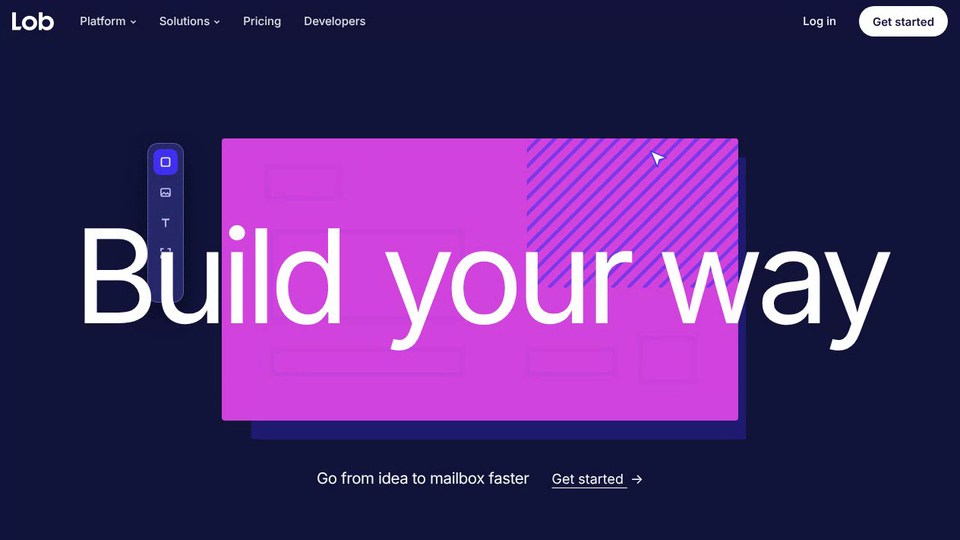
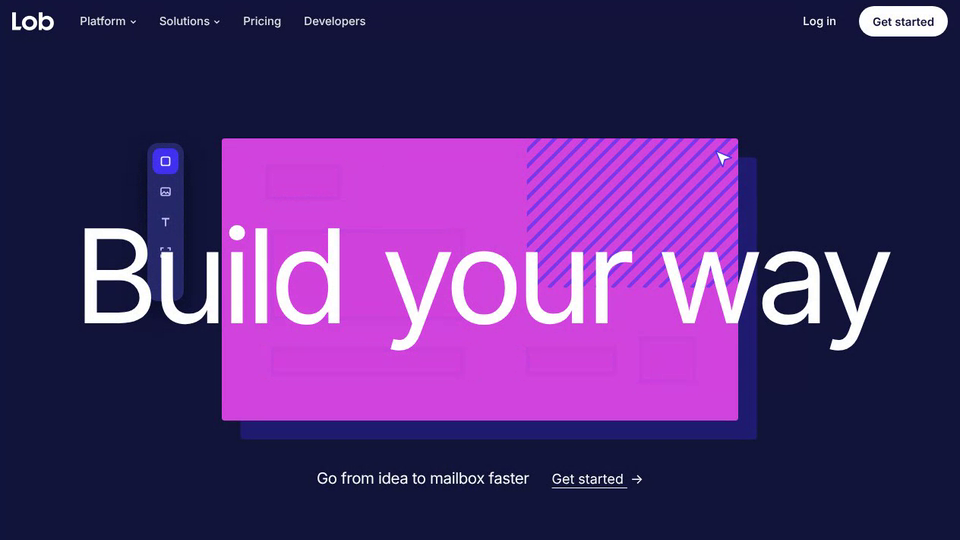
Lob Get Started: hero polish, borderless UI, serif template heading (#866)
* Lob Get Started: website mockup on dark navy

Shopify /start scroll structure for Lob: build your way hero with a
cycling mail collage, five stacked templates that open into a full
template preview, a scroll-driven Visual Editor, a CTA section with
QR code, PURL and coupon code, a fanned CTA card lineup and a centered
closing CTA.

Claude-Session: https://claude.ai/code/session_016rpgucWKf3te6zwsCQ1J4C

* Lob Get Started: chosen template drops into the Visual Editor

The Choose your template stack and the Visual Editor are now one
scroll section: the middle card is picked, the editor rises, and a
cursor carries the card into the canvas, where it opens into its
editable layers before the import, edit, swap and personalize steps.

Claude-Session: https://claude.ai/code/session_016rpgucWKf3te6zwsCQ1J4C

* Lob Get Started: lineup heading is Be at the top of the mail stack like these masters

Claude-Session: https://claude.ai/code/session_016rpgucWKf3te6zwsCQ1J4C

* Lob Get Started: lineup heading is Top of the mail stack

Claude-Session: https://claude.ai/code/session_016rpgucWKf3te6zwsCQ1J4C

* Lob Get Started: landscape mail stack cards, no tab labels

Claude-Session: https://claude.ai/code/session_016rpgucWKf3te6zwsCQ1J4C

* Lob Get Started: closing CTA on three lines, no Template Gallery in the nav

Claude-Session: https://claude.ai/code/session_016rpgucWKf3te6zwsCQ1J4C

* Lob Get Started: no outline on the picked template card
[…]

diff --git a/lob-get-started/index.html b/lob-get-started/index.html
@@ -87,7 +87,7 @@ html body nav.back:not(.sb-panel):not(:has(>div))>a,html body nav.back:not(.sb-p
 .chipfile .ok{width:22px;height:22px;border-radius:6px;background:var(--lime);display:grid;place-items:center}
 /* hero postcard: abstract blocks -> high fidelity -> bleed + crop -> QA scan -> checks */
 .hc{position:absolute;left:0;top:0;width:700px;height:430px;transform-origin:0 0;--pu:#4131f1;--mint:#c9f0e4;--hot:#d244de}
-.pcv{position:absolute;left:0;top:0;width:700px;height:430px}
+.pcv{position:absolute;left:-100px;top:-40px;width:900px;height:510px}
 .post{position:absolute;left:10px;top:34px;width:680px;height:371px;pointer-events:none}
 .blk{position:absolute;box-sizing:border-box;border:2.5px solid var(--lav);background:rgba(169,156,255,.12);border-radius:6px;opacity:0;transform:scale(.7);transition:opacity .3s,transform .45s cubic-bezier(.2,1.6,.4,1),background .5s,border-color .5s,border-radius .5s}
 .blk.in{opacity:1;transform:none}
@@ -127,15 +127,15 @@ html body nav.back:not(.sb-panel):not(:has(>div))>a,html body nav.back:not(.sb-p
 .bleed i:nth-child(3){right:-22px;top:10px;width:16px;height:2px}.bleed i:nth-child(4){right:10px;top:-22px;width:2px;height:16px}
 .bleed i:nth-child(5){left:-22px;bottom:10px;width:16px;height:2px}.bleed i:nth-child(6){left:10px;bottom:-22px;width:2px;height:16px}
 .bleed i:nth-child(7){right:-22px;bottom:10px;width:16px;height:2px}.bleed i:nth-child(8){right:10px;bottom:-22px;width:2px;height:16px}
-.qa{position:absolute;left:50%;top:-34px;transform:translateX(-50%) translateY(6px);height:30px;padding:0 14px;border-radius:99px;background:#262a6b;color:#fff;display:flex;align-items:center;gap:8px;font:700 11px var(--sans);letter-spacing:.12em;white-space:nowrap;opacity:0;transition:opacity .3s,transform .3s;z-index:3}
+.qa{position:absolute;left:50%;top:-20px;transform:translateX(-50%) translateY(6px);height:30px;padding:0 14px;border-radius:99px;background:#262a6b;color:#fff;display:flex;align-items:center;gap:8px;font:700 11px var(--sans);letter-spacing:.12em;white-space:nowrap;opacity:0;transition:opacity .3s,transform .3s;z-index:3}
 .qa.on{opacity:1;transform:translateX(-50%)}
 .qa i{font-style:normal;font-size:13px;font-weight:700;color:var(--mint)}
-.rail{position:absolute;left:-88px;top:40px;width:48px;padding:7px;border-radius:14px;background:#262a6b;border:1px solid rgba(169,156,255,.4);display:flex;flex-direction:column;gap:6px;box-shadow:0 14px 30px rgba(0,0,0,.35);opacity:0;transform:translateX(-8px);transition:opacity .35s,transform .35s;z-index:3}
+.rail{position:absolute;left:-88px;top:40px;width:48px;padding:7px;border-radius:14px;background:#262a6b;display:flex;flex-direction:column;gap:6px;box-shadow:0 14px 30px rgba(0,0,0,.35);opacity:0;transform:translateX(-8px);transition:opacity .35s,transform .35s;z-index:3}
 .rail.on{opacity:1;transform:none}
 .rail b{height:34px;border-radius:9px;display:grid;place-items:center;color:#c9c4ff;transition:background .2s,color .2s}
 .rail b svg{width:16px;height:16px}
 .rail b.on{background:var(--pu);color:#fff}
-.gal{position:absolute;left:520px;top:-26px;width:284px;padding:16px;border-radius:12px;background:#262a6b;border:1px solid rgba(169,156,255,.4);color:#fff;box-shadow:0 18px 40px rgba(0,0,0,.4);opacity:0;transform:translateY(-8px);transition:opacity .35s,transform .35s;z-index:3}
+.gal{position:absolute;left:520px;top:-26px;width:284px;padding:16px;border-radius:12px;background:#262a6b;color:#fff;box-shadow:0 18px 40px rgba(0,0,0,.4);opacity:0;transform:translateY(-8px);transition:opacity .35s,transform .35s;z-index:3}
 .gal.on{opacity:1;transform:none}
 .gal .gt{display:flex;justify-content:space-between;font:600 12px var(--sans);margin-bottom:12px}
 .gal .gn{color:#a99cff;font-weight:500}
@@ -143,9 +143,10 @@ html body nav.back:not(.sb-panel):not(:has(>div))>a,html body nav.back:not(.sb-p
 .gal .g div{aspect-ratio:1.05;border-radius:7px;background-size:cover;background-position:center;outline:3px solid transparent;outline-offset:2px;transition:outline-color .25s}
 .gal .g.on div{outline-color:var(--hot)}
 .gal .g small{display:block;margin-top:6px;font:600 10.5px var(--sans)}
-.chk{position:absolute;left:-64px;top:262px;width:272px;padding:16px 18px 16px;border-radius:12px;background:#262a6b;border:1px solid rgba(169,156,255,.4);color:#fff;box-shadow:0 18px 40px rgba(0,0,0,.4);opacity:0;transform:translateY(8px);transition:opacity .35s,transform .35s;z-index:3}
+.chk{position:absolute;left:-64px;top:276px;width:272px;padding:16px 18px 16px;border-radius:12px;background:#262a6b;color:#fff;box-shadow:0 18px 40px rgba(0,0,0,.4);opacity:0;transform:translateY(8px);transition:opacity .35s,transform .35s;z-index:3}
 .chk.on{opacity:1;transform:none}
 .chk .ct{font:700 10px var(--sans);letter-spacing:.14em;color:#a99cff;margin-bottom:8px;text-transform:uppercase}
+.chk .cr:first-of-type{border-top:0}
 .chk .cr{display:flex;align-items:center;justify-content:space-between;height:36px;font:500 13.5px var(--sans);border-top:1px solid rgba(255,255,255,.12)}
 .chk .cr i{width:20px;height:20px;border-radius:6px;background:rgba(255,255,255,.12);display:grid;place-items:center;transform:scale(.8);transition:background .25s,transform .35s cubic-bezier(.2,1.8,.4,1)}
 .chk .cr.ok i{background:var(--mint);transform:none}
@@ -292,6 +293,8 @@ html body nav.back:not(.sb-panel):not(:has(>div))>a,html body nav.back:not(.sb-p
 #ab.l2 #antsH{left:208px;top:50px;width:204px;height:100px}
 #ab.l2 #antsI{left:-6px;top:-6px;width:208px;height:292px}
 .ab .band p,.ab .band .qr{transition:all .6s cubic-bezier(.6,0,.2,1)}
+#tplH p{max-width:none;white-space:nowrap}
+@media (max-width:640px){#tplH p{white-space:normal}}
 #veH p{min-height:2.9em;max-width:520px;transition:opacity .3s,filter .3s,transform .3s}
 #veH p.sw{opacity:0;filter:blur(4px);transform:translateY(6px)}
 .steps{position:absolute;left:0;top:622px;width:960px;display:flex;justify-content:center;gap:10px}
@@ -413,7 +416,7 @@ footer nav{display:flex;gap:22px;margin-left:auto;flex-wrap:wrap}
         </div>
         <div class="gal" id="gal"><div class="gt"><span>Images ›</span><span class="gn">Healthcare</span></div>
           <div class="gth"><div class="g" id="g1"><div style="background-image:url(assets/care-1.webp)"></div></div><div class="g" id="g2"><div style="background-image:url(assets/care-2.webp);background-position:62% 30%"></div></div><div class="g" id="g3"><div style="background-image:url(assets/care-3.webp);background-position:45% 30%"></div></div></div></div>
-        <div class="chk" id="chk"><div class="ct">QA checks</div>
+        <div class="chk" id="chk">
           <div class="cr" id="cr1"><span>Deliverability</span><i></i></div>
           <div class="cr" id="cr2"><span>QR code correct</span><i></i></div>
           <div class="cr" id="cr3"><span>Name matches CSV</span><i></i></div>
@@ -429,7 +432,7 @@ footer nav{display:flex;gap:22px;margin-left:auto;flex-wrap:wrap}
 <!-- 1 templates: five stacked cards; the chosen one is dragged into the Visual Editor -->
 <section class="sec" id="tpl">
   <div class="stick" id="tplS">
-    <div class="hd" id="tplH" style="top:7%"><h2>Choose your <em class="s">template</em></h2><p>Start with 40+ ready-to-use mail pieces or design your own from scratch.</p></div>
+    <div class="hd" id="tplH" style="top:7%"><h2><em class="s">Choose your template</em></h2><p>Start with 40+ ready-to-use mail pieces or design your own.</p></div>
     <div class="hd" id="veH" style="opacity:0"><h2>Build in the <em class="s">Visual Editor</em></h2><p id="veSub">Start from a ready-to-use template or build your own from scratch.</p></div>
     <div class="box" id="veB">
       <div class="glow" id="veG"></div>
@@ -569,10 +572,10 @@ const EL_ORDER = [3, 4, 2, 0, 1];
 const IMG1 = new Image(); IMG1.src = 'assets/care-1.webp';
 const IMG2 = new Image(); IMG2.src = 'assets/care-2.webp';
 const IMG3 = new Image(); IMG3.src = 'assets/care-3.webp';
-const QRM = (() => { const out = [];   // a simplified 11 x 11 code: three finder squares and a few data blocks
-  const finder = (ox, oy) => { for (let y = 0; y < 4; y++) for (let x = 0; x < 4; x++) if (x === 0 || y === 0 || x === 3 || y === 3) out.push([ox + x, oy + y]); out.push([ox + 1.5, oy + 1.5]); };
-  finder(0, 0); finder(7, 0); finder(0, 7);
-  for (const p of [[5, 1], [5, 3], [6, 5], [8, 5], [10, 5], [5, 6], [7, 7], [9, 7], [5, 8], [8, 8], [10, 9], [6, 10], [8, 10], [10, 10], [1, 5], [3, 5]]) out.push(p);
+const QRM = (() => { const out = [];   // a simplified 15 x 15 code: three thin finder squares and a few data blocks
+  const finder = (ox, oy) => { for (let y = 0; y < 5; y++) for (let x = 0; x < 5; x++) if (x === 0 || y === 0 || x === 4 || y === 4) out.push([ox + x, oy + y]); out.push([ox + 2, oy + 2]); };
+  finder(0, 0); finder(10, 0); finder(0, 10);
+  for (const p of [[7, 1], [7, 3], [6, 6], [8, 6], [10, 7], [12, 7], [14, 7], [1, 7], [3, 7], [7, 8], [9, 9], [11, 9], [13, 10], [7, 10], [8, 12], [10, 12], [12, 13], [14, 12], [7, 14], [10, 14], [13, 14]]) out.push(p);
   return out; })();
 const LOOP = 19.4;
 const span = (t, a, b) => cl((t - a) / (b - a));
@@ -604,7 +607,7 @@ function drawDesign(t){
   if (lw > 0) { cx.fillStyle = PU; cx.fillRect(560, 390, 320 * lw, 90); }
   // photo slot: image 1 fades and settles in, image 2 replaces it later
   const e1 = ease(span(t, 5.5, 6.3)), e2 = ease(span(t, 11.1, 11.7)), e3 = ease(span(t, 12.1, 12.7));
-  for (const [img, e, fx] of [[IMG1, e1, .5], [IMG2, e2, .62], [IMG3, e3, .45]]) {
+  for (const [img, e, fx] of [[IMG2, e1, .62], [IMG3, e2, .45], [IMG1, e3, .5]]) {   // check-up, wellness, then the care team photo is the one chosen
     if (e <= 0) continue;
     cx.save(); cx.beginPath(); cx.rect(500, 0, 380, 390); cx.clip(); cx.globalAlpha = e;
     cover(img, 500, 0, 380, 390, fx, .3, 1.1 - .1 * e); cx.restore();
@@ -662,7 +665,7 @@ function drawDesign(t){
     cx.save(); cx.globalAlpha = 1 - qr; cx.strokeStyle = PU; cx.lineWidth = 3.6;
     const br = (x, y, dx, dy) => { cx.beginPath(); cx.moveTo(x + dx * 16, y); cx.lineTo(x, y); cx.lineTo(x, y + dy * 16); cx.stroke(); };
     br(28, 28, 1, 1); br(88, 28, -1, 1); br(28, 88, 1, -1); br(88, 88, -1, -1); cx.restore();
-    if (qr > 0) { cx.save(); cx.beginPath(); cx.rect(12, 12, 92, 92 * qr); cx.clip(); cx.fillStyle = '#1e2245'; const m = 92 / 11; for (const [x, y] of QRM) cx.fillRect(12 + x * m, 12 + y * m, m + .2, m + .2); cx.restore(); }
+    if (qr > 0) { cx.save(); cx.beginPath(); cx.rect(12, 12, 92, 92 * qr); cx.clip(); cx.fillStyle = '#1e2245'; const m = 92 / 15; for (const [x, y] of QRM) cx.fillRect(12 + x * m, 12 + y * m, m + .2, m + .2); cx.restore(); }
     cx.restore();
   }
   // URL: two bars and a pill, later the PURL on hot pink
@@ -694,7 +697,7 @@ function drawCard(t){
   const radius = lerp(6, 3, d);
   cx.save();
   cx.translate(CW0 / 2, CH0 / 2); cx.scale(grow, grow); cx.translate(-CW0 / 2, -CH0 / 2);
-  rr(50, 32, CW0, CH0, radius); cx.fillStyle = 'rgba(65,49,241,.3)'; cx.fill();   // hard offset shadow, purple at 30%
+  rr(32, 32, CW0, CH0, radius); cx.fillStyle = 'rgba(65,49,241,.3)'; cx.fill();   // hard offset shadow, purple at 30%
   rr(0, 0, CW0, CH0, radius); cx.fillStyle = PINK; cx.fill();
   cx.save(); rr(0, 0, CW0, CH0, radius); cx.clip();
   if (wire > 0) { cx.globalAlpha = wire; hatch(520, -6, 370, 260, PU, 27, 6); cx.globalAlpha = 1; }
@@ -704,16 +707,16 @@ function drawCard(t){
   cx.restore();
 }
 // cursor keyframes in stage px: [t, x, y]
-const HK = [[0, 640, 470], [.4, -64, 65], [4.6, -64, 65], [5.0, 574, 50], [5.6, 574, 50], [6.2, -64, 145], [6.8, -64, 105], [7.6, -64, 225], [8.4, -64, 185], [8.8, -64, 145], [9.9, -64, 225], [10.5, -64, 185], [11.0, 660, 50], [11.6, 660, 52], [11.9, 746, 50], [12.6, 746, 52], [13.1, 760, 470], [LOOP, 760, 470]];
+const HK = [[0, 640, 470], [.4, -64, 65], [4.6, -64, 65], [5.0, 660, 50], [5.6, 660, 50], [6.2, -64, 145], [6.8, -64, 105], [7.6, -64, 225], [8.4, -64, 185], [8.8, -64, 145], [9.9, -64, 225], [10.5, -64, 185], [11.0, 746, 50], [11.6, 746, 52], [11.9, 574, 50], [12.6, 574, 52], [13.1, 760, 470], [LOOP, 760, 470]];
 function at(t, K){ for (let i = 1; i < K.length; i++) if (t <= K[i][0]) { const a = K[i - 1], b = K[i]; const k = easeIO((t - a[0]) / (b[0] - a[0] || 1)); return [lerp(a[1], b[1], k), lerp(a[2], b[2], k)]; } return K[K.length - 1].slice(1); }
 const tog = (el, c, on) => el.classList.toggle(c, !!on);
 function heroAt(t, S){
   const fade = t > LOOP - .5 ? 1 - (t - (LOOP - .5)) / .5 : 1;
   $('#hc').style.opacity = fade;
-  const dpr = Math.min(2, devicePixelRatio || 1), W = Math.round(700 * S * dpr), H = Math.round(430 * S * dpr);
+  const dpr = Math.min(2, devicePixelRatio || 1), W = Math.round(900 * S * dpr), H = Math.round(510 * S * dpr);   // canvas runs 100px past the stage sides so the shadow is never clipped
   if (cv.width !== W || cv.height !== H) { cv.width = W; cv.height = H; }
   cx.setTransform(1, 0, 0, 1, 0, 0); cx.clearRect(0, 0, W, H);
-  cx.setTransform(S * dpr * KS, 0, 0, S * dpr * KS, S * dpr * CX0, S * dpr * CY0);
+  cx.setTransform(S * dpr * KS, 0, 0, S * dpr * KS, S * dpr * (CX0 + 100), S * dpr * (CY0 + 40));
   drawCard(t);
   // tool rail: the tool placing the current element
   tog(HC.rail, 'on', t > .2 && t < 13.1);
@@ -721,9 +724,9 @@ function heroAt(t, S){
   for (const k in railB) tog(railB[k], 'on', k === tool);
   // gallery: image 1 then image 2, the photo slot follows
   tog(HC.gal, 'on', t >= 5.0 && t < 13.0);
-  tog($('#g1'), 'on', t >= 5.4 && t < 10.9);
-  tog($('#g2'), 'on', t >= 10.9 && t < 11.9);
-  tog($('#g3'), 'on', t >= 11.9 && t < 13.0);
+  tog($('#g2'), 'on', t >= 5.4 && t < 10.9);
+  tog($('#g3'), 'on', t >= 10.9 && t < 11.9);
+  tog($('#g1'), 'on', t >= 11.9 && t < 13.0);
   HC.ants.style.opacity = (t >= 5.4 && t < 6.4) || (t >= 10.9 && t < 12.8) ? 1 : 0;
   HC.bleed.style.opacity = t >= 13.2 && t < 14.6 ? 1 : 0;
   const sc = span(t, 14.8, 16.0);
